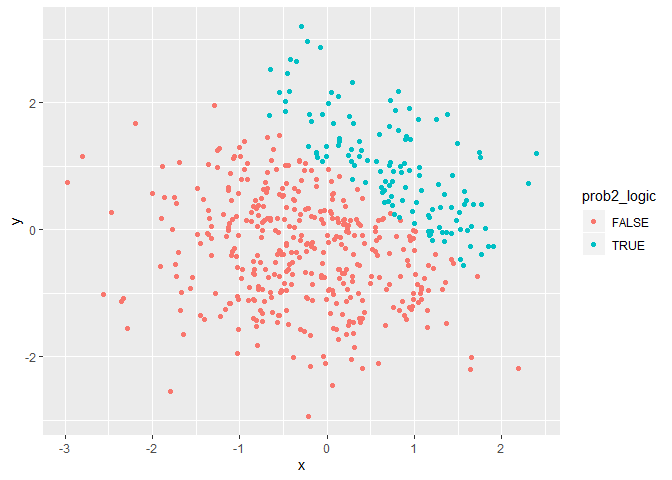
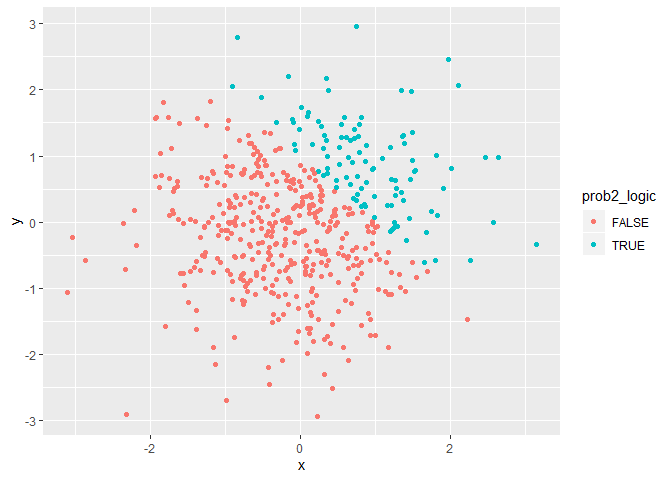
I changed my df for question 2, because initially I had created my num_logic2 and factor_logic2 outside my tibble. I also had to change a part of my linline code and pull this vector from df first before using it in my inline code!

diff --git a/p8105_hw1_ha2546.md b/p8105_hw1_ha2546.md
@@ -23,7 +23,7 @@ sample_mean = mean(pull(prob1_df, vec_sample))
 sample_mean
 ```
 
-    ## [1] 0.1505652
+    ## [1] 0.1841527
 
 ``` r
 logic_mean = mean(pull(prob1_df, vec_logic))
@@ -70,20 +70,17 @@ In the second part, I have tried to convert the logical, character, and
 factor variables’ types I had to numeric:
 
 ``` r
-num_logic = as.numeric(pull(prob1_df, vec_logic))
-num_logic
-num_char = as.numeric(pull(prob1_df, vec_char))
+as.numeric(pull(prob1_df, vec_logic))
+as.numeric(pull(prob1_df, vec_char))
 ```
 
     ## Warning: NAs introduced by coercion
 
 ``` r
-num_char
-num_factor = as.numeric(pull(prob1_df, vec_factor))
-num_factor
+as.numeric(pull(prob1_df, vec_factor))
 ```
 
-    ## [1] 1 1 0 1 0 0 0 1
+    ## [1] 0 0 1 1 1 0 0 1
     ## [1] NA NA NA NA NA NA NA NA
     ## [1] 2 1 3 3 1 1 1 1
 
@@ -108,12 +105,14 @@ Then, I have converted the logical vector again, but this time to a
 factor vector. And again, done some calculations…
 
 ``` r
+num_logic = as.numeric(pull(prob1_df, vec_logic))
+
 num_logic_calc = pull(prob1_df, vec_sample) * num_logic
 num_logic_calc
 ```
 
-    ## [1] 0.2694022 1.9337457 0.0000000 1.4074178 0.0000000 0.0000000 0.0000000
-    ## [8] 0.7826507
+    ## [1] 0.0000000 0.0000000 0.1360987 1.6888280 0.6933458 0.0000000 0.0000000
+    ## [8] 0.2803950
 
 ``` r
 factor_logic = as.factor(pull(prob1_df, vec_logic))
@@ -127,7 +126,7 @@ factor_logic_calc1 = pull(prob1_df, vec_sample) * factor_logic
 factor_logic
 ```
 
-    ## [1] TRUE  TRUE  FALSE TRUE  FALSE FALSE FALSE TRUE 
+    ## [1] FALSE FALSE TRUE  TRUE  TRUE  FALSE FALSE TRUE 
     ## Levels: FALSE TRUE
 
 ``` r
@@ -142,14 +141,14 @@ factor_logic_calc2 = pull(prob1_df, vec_sample) * num_factor_logic
 num_factor_logic
 ```
 
-    ## [1] 2 2 1 2 1 1 1 2
+    ## [1] 1 1 2 2 2 1 1 2
 
 ``` r
 factor_logic_calc2
 ```
 
-    ## [1]  0.5388043  3.8674915 -0.7907436  2.8148356 -0.7559607 -1.0127797
-    ## [7] -0.6292106  1.5653014
+    ## [1] -0.03317776 -0.48509948  0.27219743  3.37765594  1.38669167 -0.52409727
+    ## [7] -0.28307125  0.56079005
 
   - **Results**
 
@@ -172,17 +171,16 @@ factor.
 prob2_df = tibble(
   x = rnorm(500),
   y = rnorm(500),
-  prob2_logic = x + y > 1
+  prob2_logic = x + y > 1,
+  num_logic2 = as.numeric(prob2_logic),
+  factor_logic2 = as.factor(prob2_logic)
 )
-
-num_logic2 = as.numeric(pull(prob2_df, prob2_logic))
-factor_logic2 = as.factor(pull(prob2_df, prob2_logic))
 ```
 
-The size of my dataset is 500, 3; which means it has 500 rows and
-3columns. The mean of x is -0.0363464, its median is -0.0381081, and its
-standard deviation is 0.9258333. The proportion of cases for which x + y
-\> 1 is 0.0826667
+The size of my dataset is 500, 5; which means it has 500 rows and
+5columns. The mean of x is -0.0546353, its median is -0.0453207, and its
+standard deviation is 0.9463173. The proportion of cases for which x + y
+\> 1 is 0.0412
 
 ## 2.2
 
